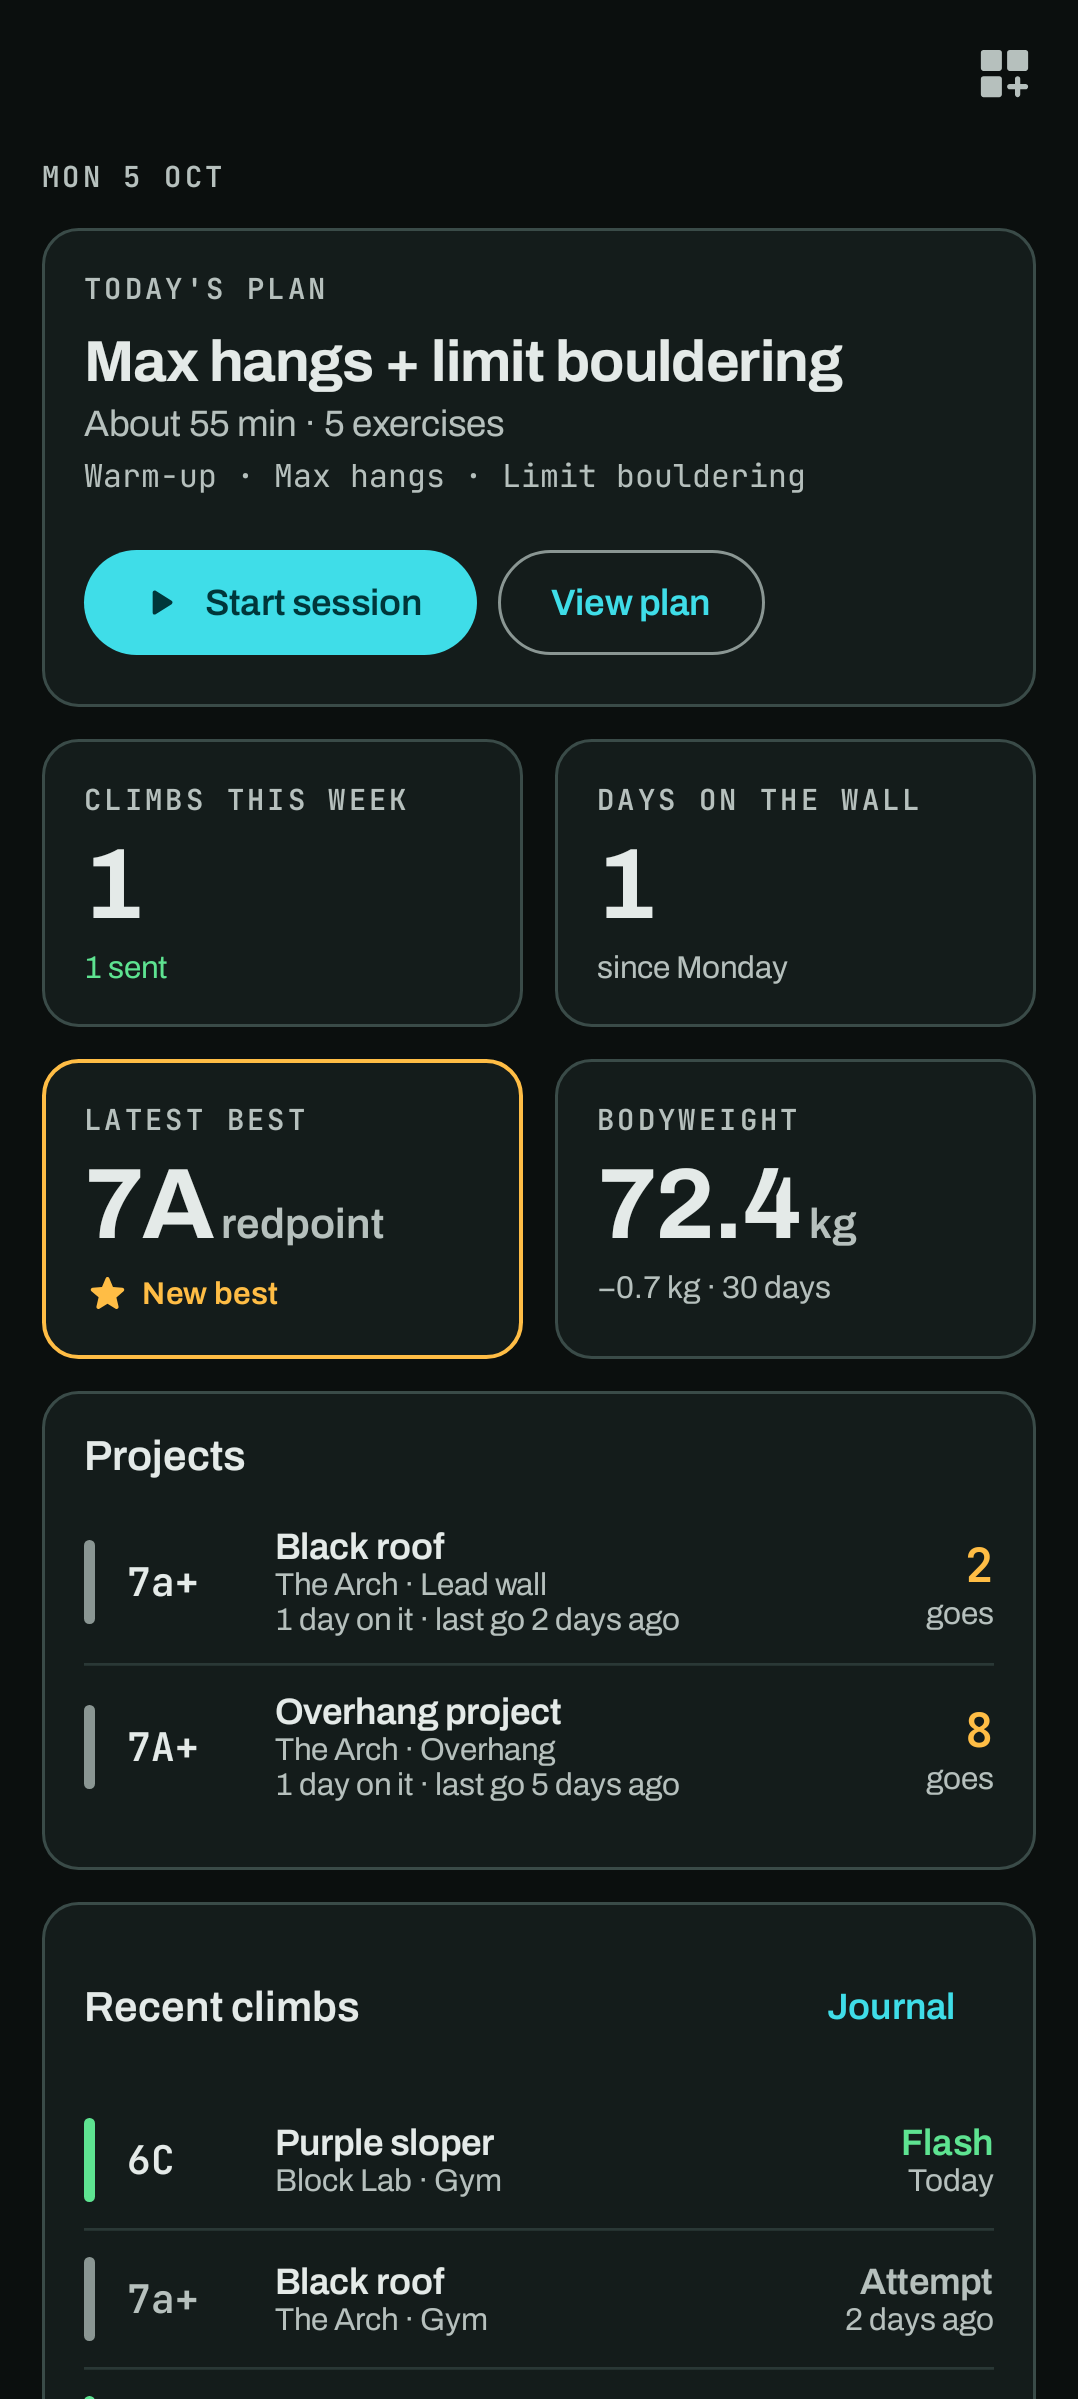
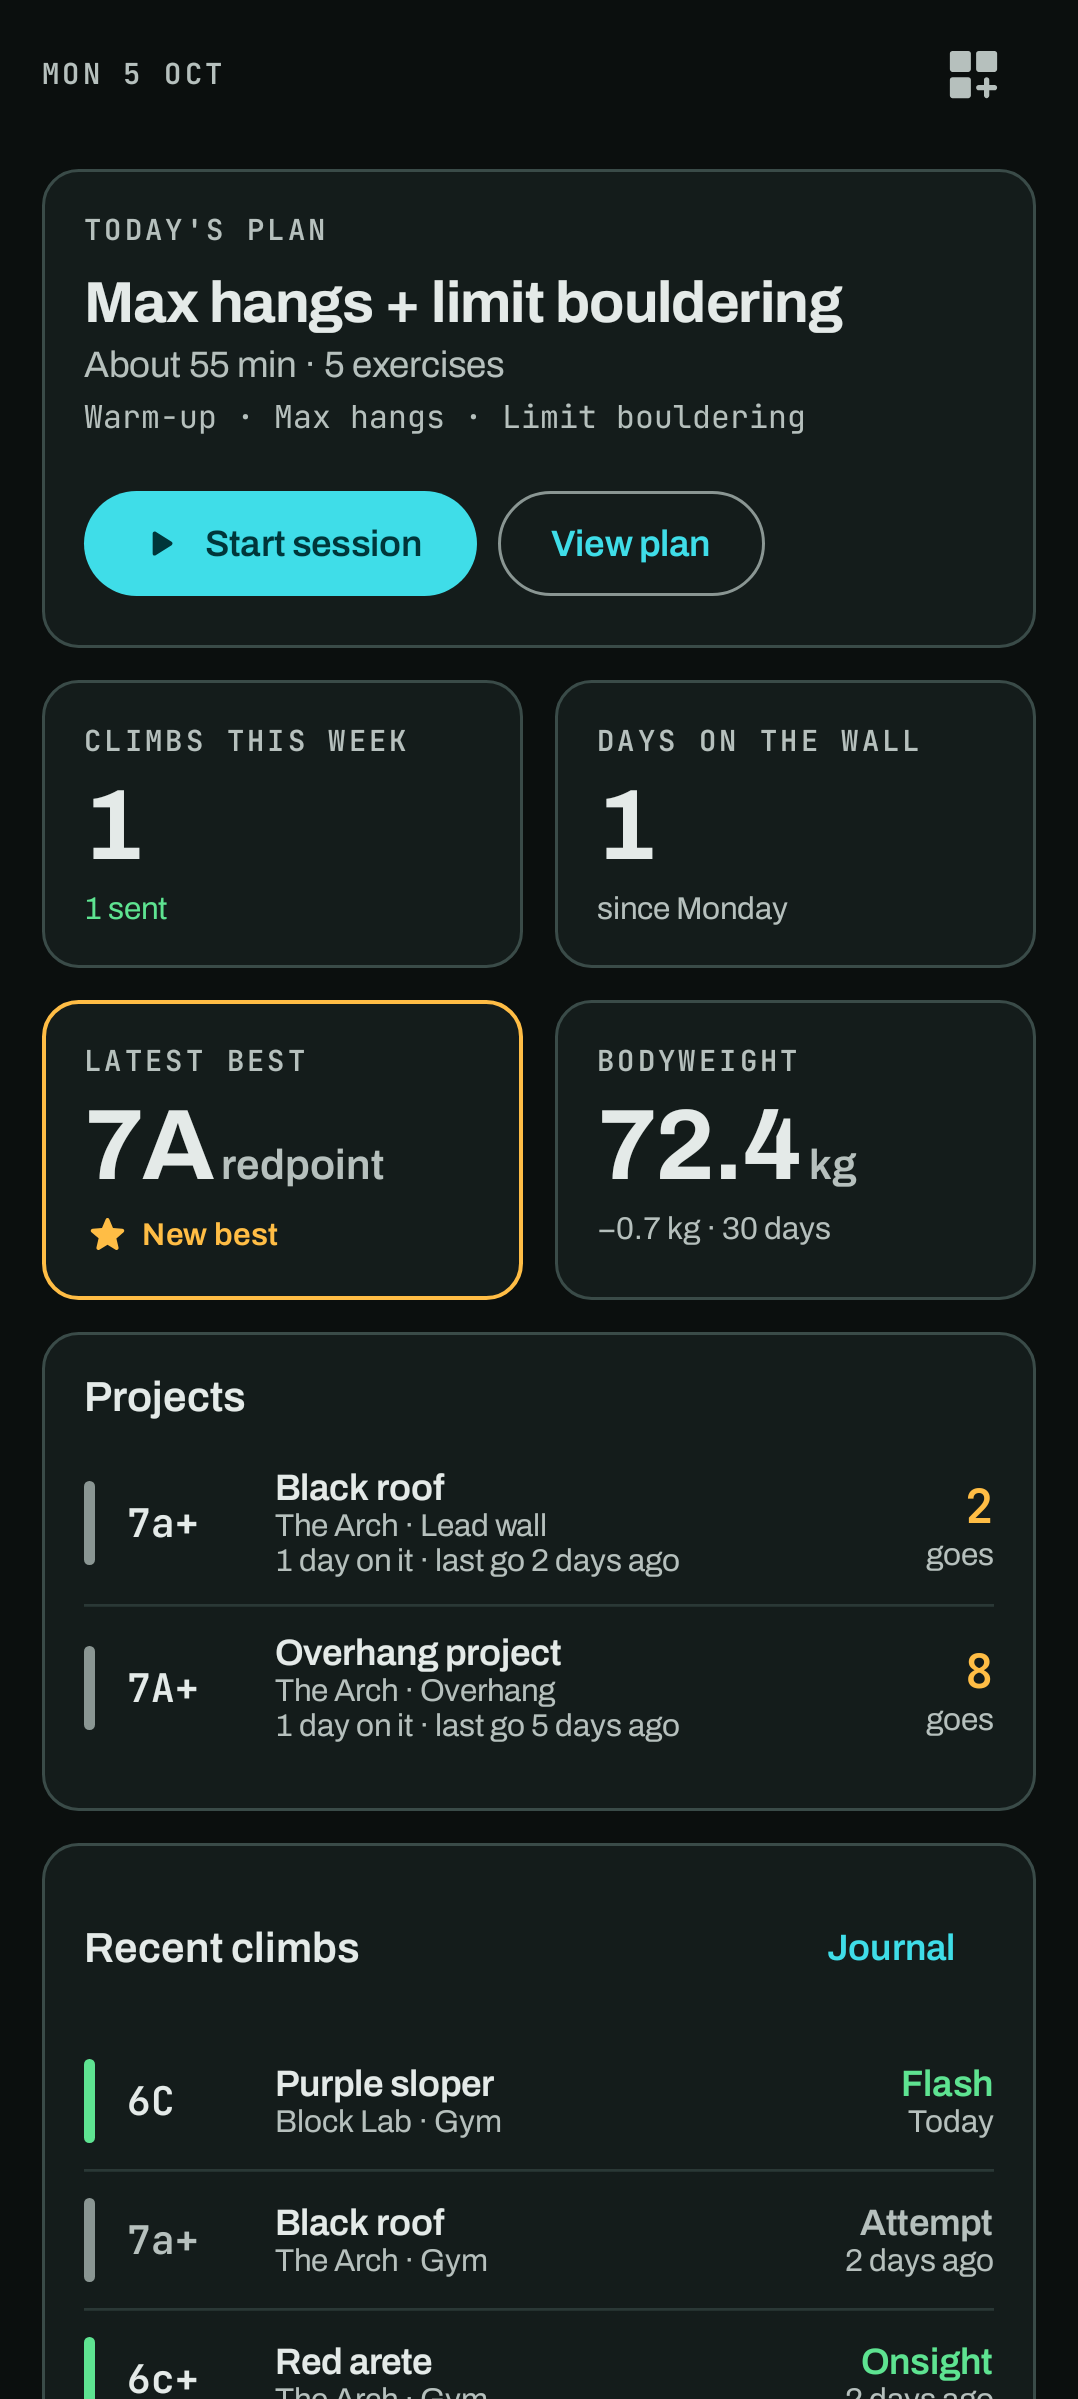
Home without a header: edit button beside the date, bar only while editing

diff --git a/app/src/main/java/com/hardtekpt/crux/ui/home/HomeScreen.kt b/app/src/main/java/com/hardtekpt/crux/ui/home/HomeScreen.kt
@@ -12,9 +12,11 @@ import androidx.compose.foundation.layout.Box
 import androidx.compose.foundation.layout.Column
 import androidx.compose.foundation.layout.Row
 import androidx.compose.foundation.layout.fillMaxSize
+import androidx.compose.foundation.layout.fillMaxWidth
 import androidx.compose.foundation.layout.navigationBarsPadding
 import androidx.compose.foundation.layout.padding
 import androidx.compose.foundation.layout.size
+import androidx.compose.foundation.layout.statusBarsPadding
 import androidx.compose.foundation.rememberScrollState
 import androidx.compose.foundation.shape.CircleShape
 import androidx.compose.foundation.verticalScroll
@@ -30,7 +32,6 @@ import androidx.compose.material3.MaterialTheme
 import androidx.compose.material3.ModalBottomSheet
 import androidx.compose.material3.Text
 import androidx.compose.material3.TextButton
-import androidx.compose.material3.TopAppBarDefaults
 import androidx.compose.material3.rememberModalBottomSheetState
 import androidx.compose.runtime.Composable
 import androidx.compose.runtime.LaunchedEffect
@@ -47,7 +48,6 @@ import androidx.compose.ui.geometry.Offset
 import androidx.compose.ui.geometry.Rect
 import androidx.compose.ui.graphics.graphicsLayer
 import androidx.compose.ui.hapticfeedback.HapticFeedbackType
-import androidx.compose.ui.input.nestedscroll.nestedScroll
 import androidx.compose.ui.input.pointer.pointerInput
 import androidx.compose.ui.layout.Layout
 import androidx.compose.ui.layout.boundsInRoot
@@ -151,10 +151,6 @@ fun HomeContent(
     modifier: Modifier = Modifier,
 ) {
     val editing = dashboard.editing
-    // The bar slides away as the dashboard scrolls down and back on the way up; it stays put
-    // while editing, where it holds Add and Done.
-    val scrollBehavior = TopAppBarDefaults.enterAlwaysScrollBehavior(canScroll = { !editing })
-    LaunchedEffect(editing) { if (editing) scrollBehavior.state.heightOffset = 0f }
     val scrollState = rememberScrollState()
     val haptics = LocalHapticFeedback.current
     val edgePx = with(LocalDensity.current) { 96.dp.toPx() }
@@ -233,27 +229,23 @@ fun HomeContent(
     Column(
         modifier = modifier
             .fillMaxSize()
-            .nestedScroll(scrollBehavior.nestedScrollConnection)
+            .then(if (editing) Modifier else Modifier.statusBarsPadding())
             .testTag("screen_Home"),
     ) {
-        CruxTopAppBar(
-            title = if (editing) "Edit dashboard" else "",
-            scrollBehavior = scrollBehavior,
-            actions = {
-                if (editing) {
+        // No header: the dashboard starts at the top. Editing brings a bar with Add and Done.
+        if (editing) {
+            CruxTopAppBar(
+                title = "Edit dashboard",
+                actions = {
                     IconButton(onClick = editor.openAdd, modifier = Modifier.testTag("add_widget")) {
                         Icon(Icons.Rounded.Add, contentDescription = "Add widget")
                     }
                     TextButton(onClick = editor.finish, modifier = Modifier.testTag("done_editing")) {
                         Text("Done", style = MaterialTheme.typography.labelLarge)
                     }
-                } else {
-                    IconButton(onClick = editor.start, modifier = Modifier.testTag("edit_dashboard")) {
-                        Icon(Icons.Rounded.DashboardCustomize, contentDescription = "Edit dashboard")
-                    }
-                }
-            },
-        )
+                },
+            )
+        }
         Column(
             modifier = Modifier
                 .fillMaxSize()
@@ -264,14 +256,26 @@ fun HomeContent(
                 .testTag("home_list"),
             verticalArrangement = Arrangement.spacedBy(space.s3),
         ) {
-            Eyebrow(
-                when {
-                    editing -> "Drag to move · resize · remove"
-                    demoMode -> "${uiState.today.dayLabel()} · Demo data"
-                    else -> uiState.today.dayLabel()
-                },
-                Modifier.testTag("home_eyebrow"),
-            )
+            // The date, with the button that edits the dashboard at its end.
+            Row(verticalAlignment = Alignment.CenterVertically, modifier = Modifier.fillMaxWidth()) {
+                Eyebrow(
+                    when {
+                        editing -> "Drag to move · resize · remove"
+                        demoMode -> "${uiState.today.dayLabel()} · Demo data"
+                        else -> uiState.today.dayLabel()
+                    },
+                    Modifier.weight(1f).testTag("home_eyebrow"),
+                )
+                if (!editing) {
+                    IconButton(onClick = editor.start, modifier = Modifier.testTag("edit_dashboard")) {
+                        Icon(
+                            Icons.Rounded.DashboardCustomize,
+                            contentDescription = "Edit dashboard",
+                            tint = MaterialTheme.colorScheme.onSurfaceVariant,
+                        )
+                    }
+                }
+            }
             // One flat, keyed list laid out as a two-column flow: moving a widget only reorders
             // children, so the widget being dragged keeps its gesture while it changes rows.
             DashboardGrid(widgets = dashboard.widgets, spacing = space.s3) {

diff --git a/docs/user/home.md b/docs/user/home.md
@@ -2,8 +2,8 @@
 
 Home is a dashboard of widgets that you choose and arrange yourself.
 
-The top bar holds only the edit button, and it slides away as you scroll down and comes back as
-you scroll up (it stays while you edit the dashboard).
+Home has no title bar: the dashboard starts with the date, and the button at its end edits the
+dashboard. While editing, a bar at the top holds *Add widget* and *Done*.
 
 <img src="../../fastlane/metadata/android/en-US/images/phoneScreenshots/1_home.png" width="300" alt="Home dashboard with today's plan, this week, latest best, bodyweight and projects">
 
@@ -25,7 +25,7 @@ you scroll up (it stays while you edit the dashboard).
 
 ## Arranging the dashboard
 
-Tap the grid icon at the top right to start editing. Then:
+Tap the grid icon beside the date to start editing. Then:
 
 - **Remove** a widget with its ✕.
 - **Resize** it. Most widgets come in small (half width), wide or large.

diff --git a/CHANGELOG.md b/CHANGELOG.md
@@ -20,8 +20,8 @@ and versions follow [Semantic Versioning](https://semver.org/). Each release als
 
 ### Changed
 
-- **More room on Home**: the app name is gone from the top bar, and the bar hides as you scroll
-  down and returns as you scroll up.
+- **More room on Home**: no title bar; the dashboard starts with the date, and the edit button
+  sits at its end.
 - **A lighter Journal header**: search and filters sit in the top bar, the types are tabs, and
   today is the first day on the timeline, so the timeline starts right under the tabs.
 
